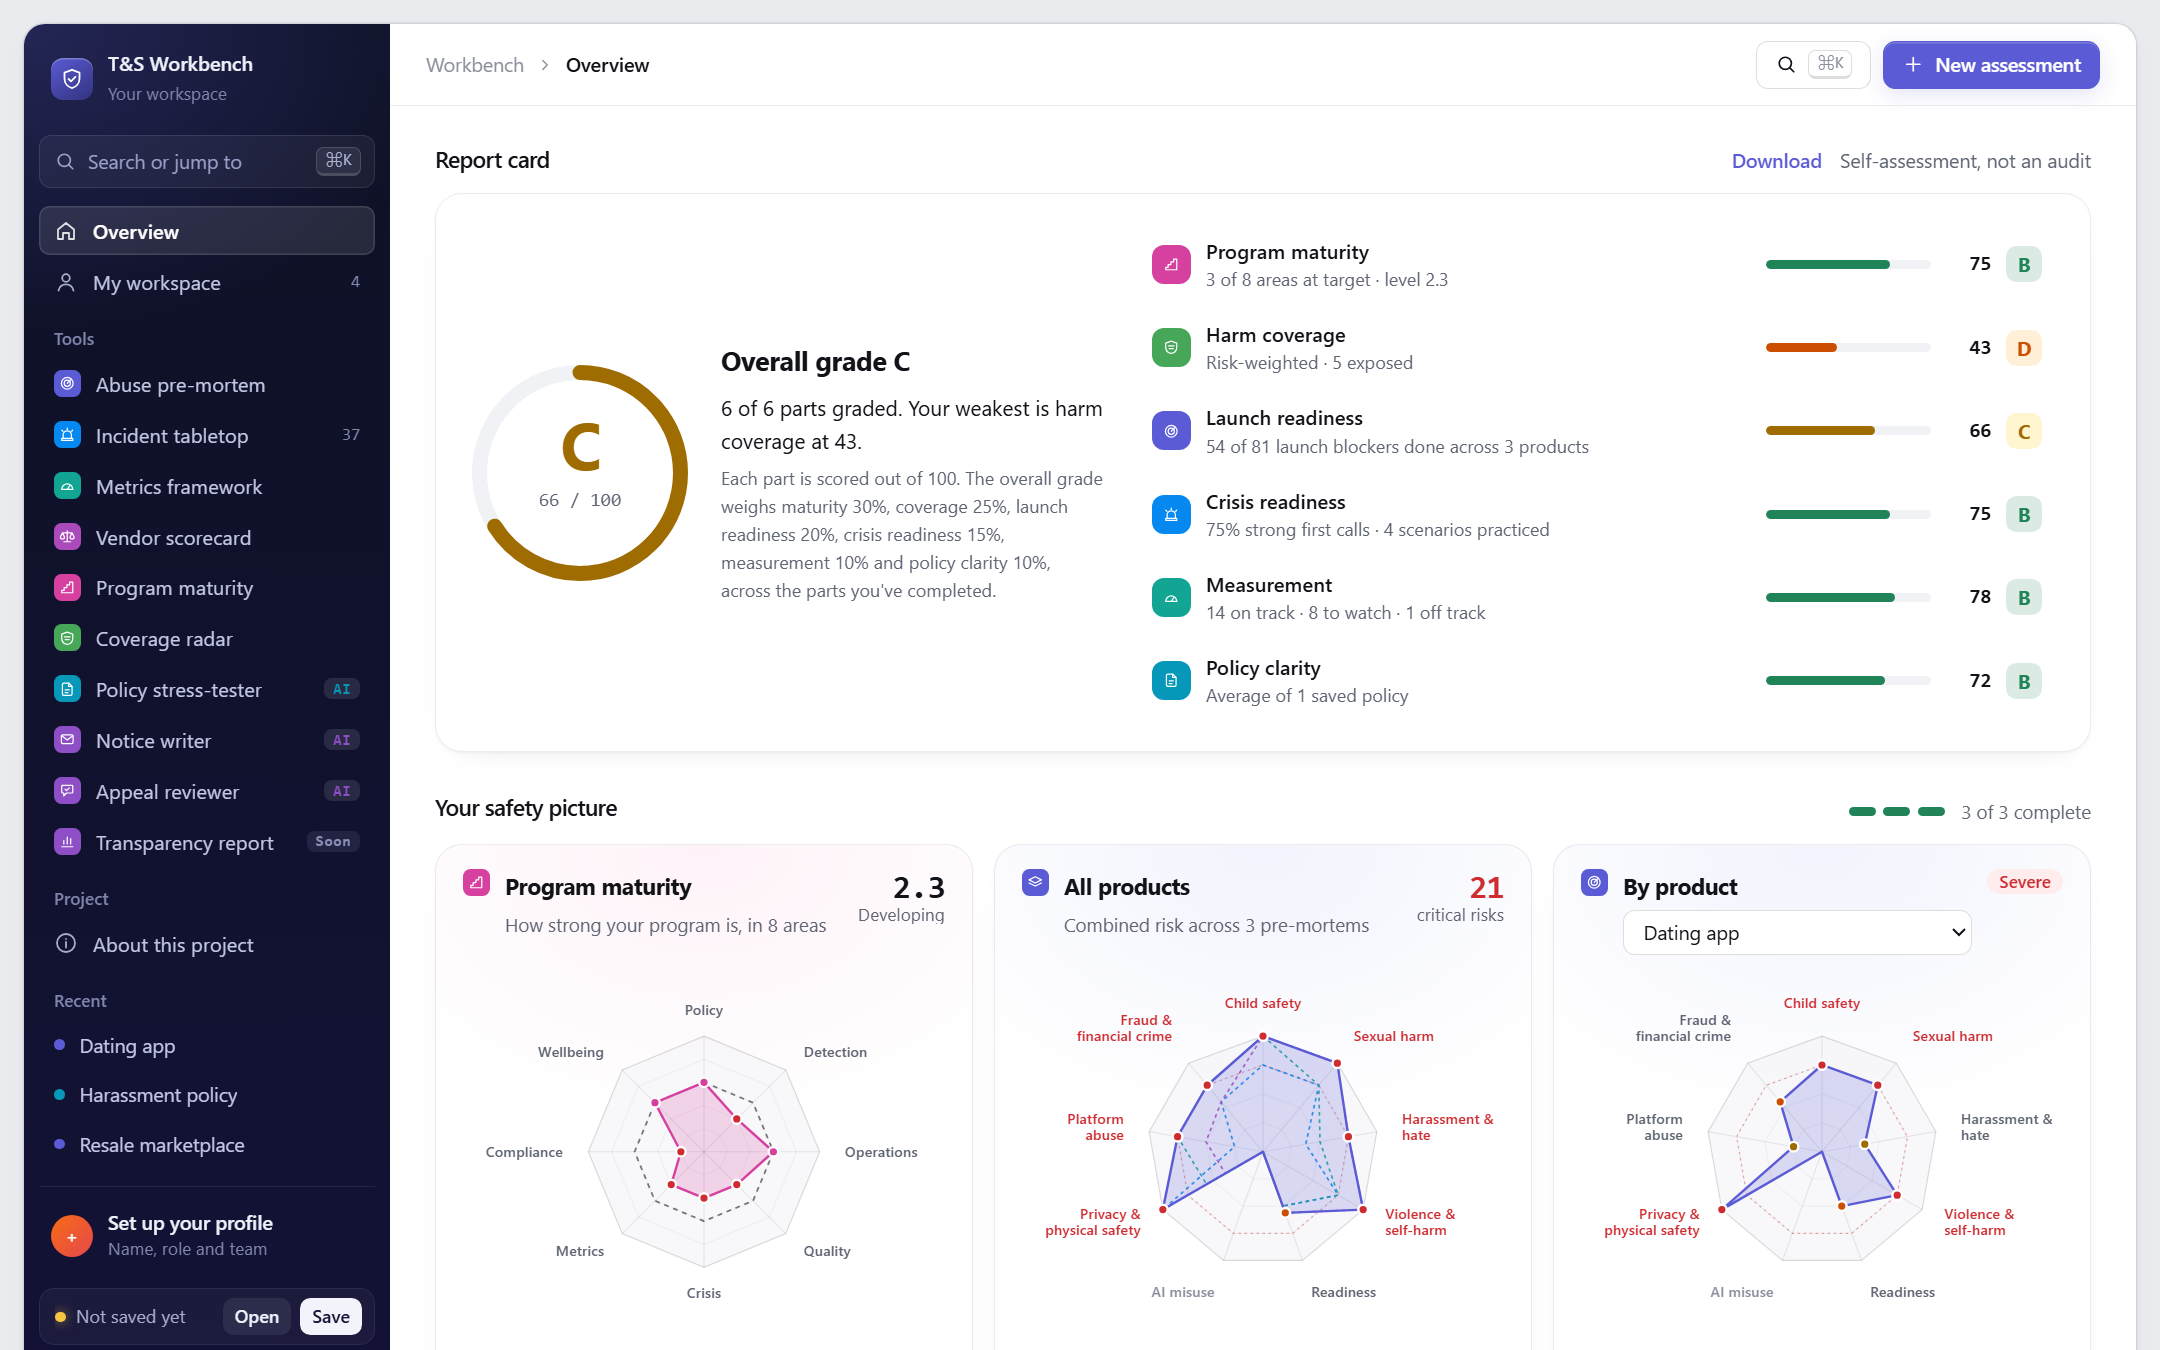
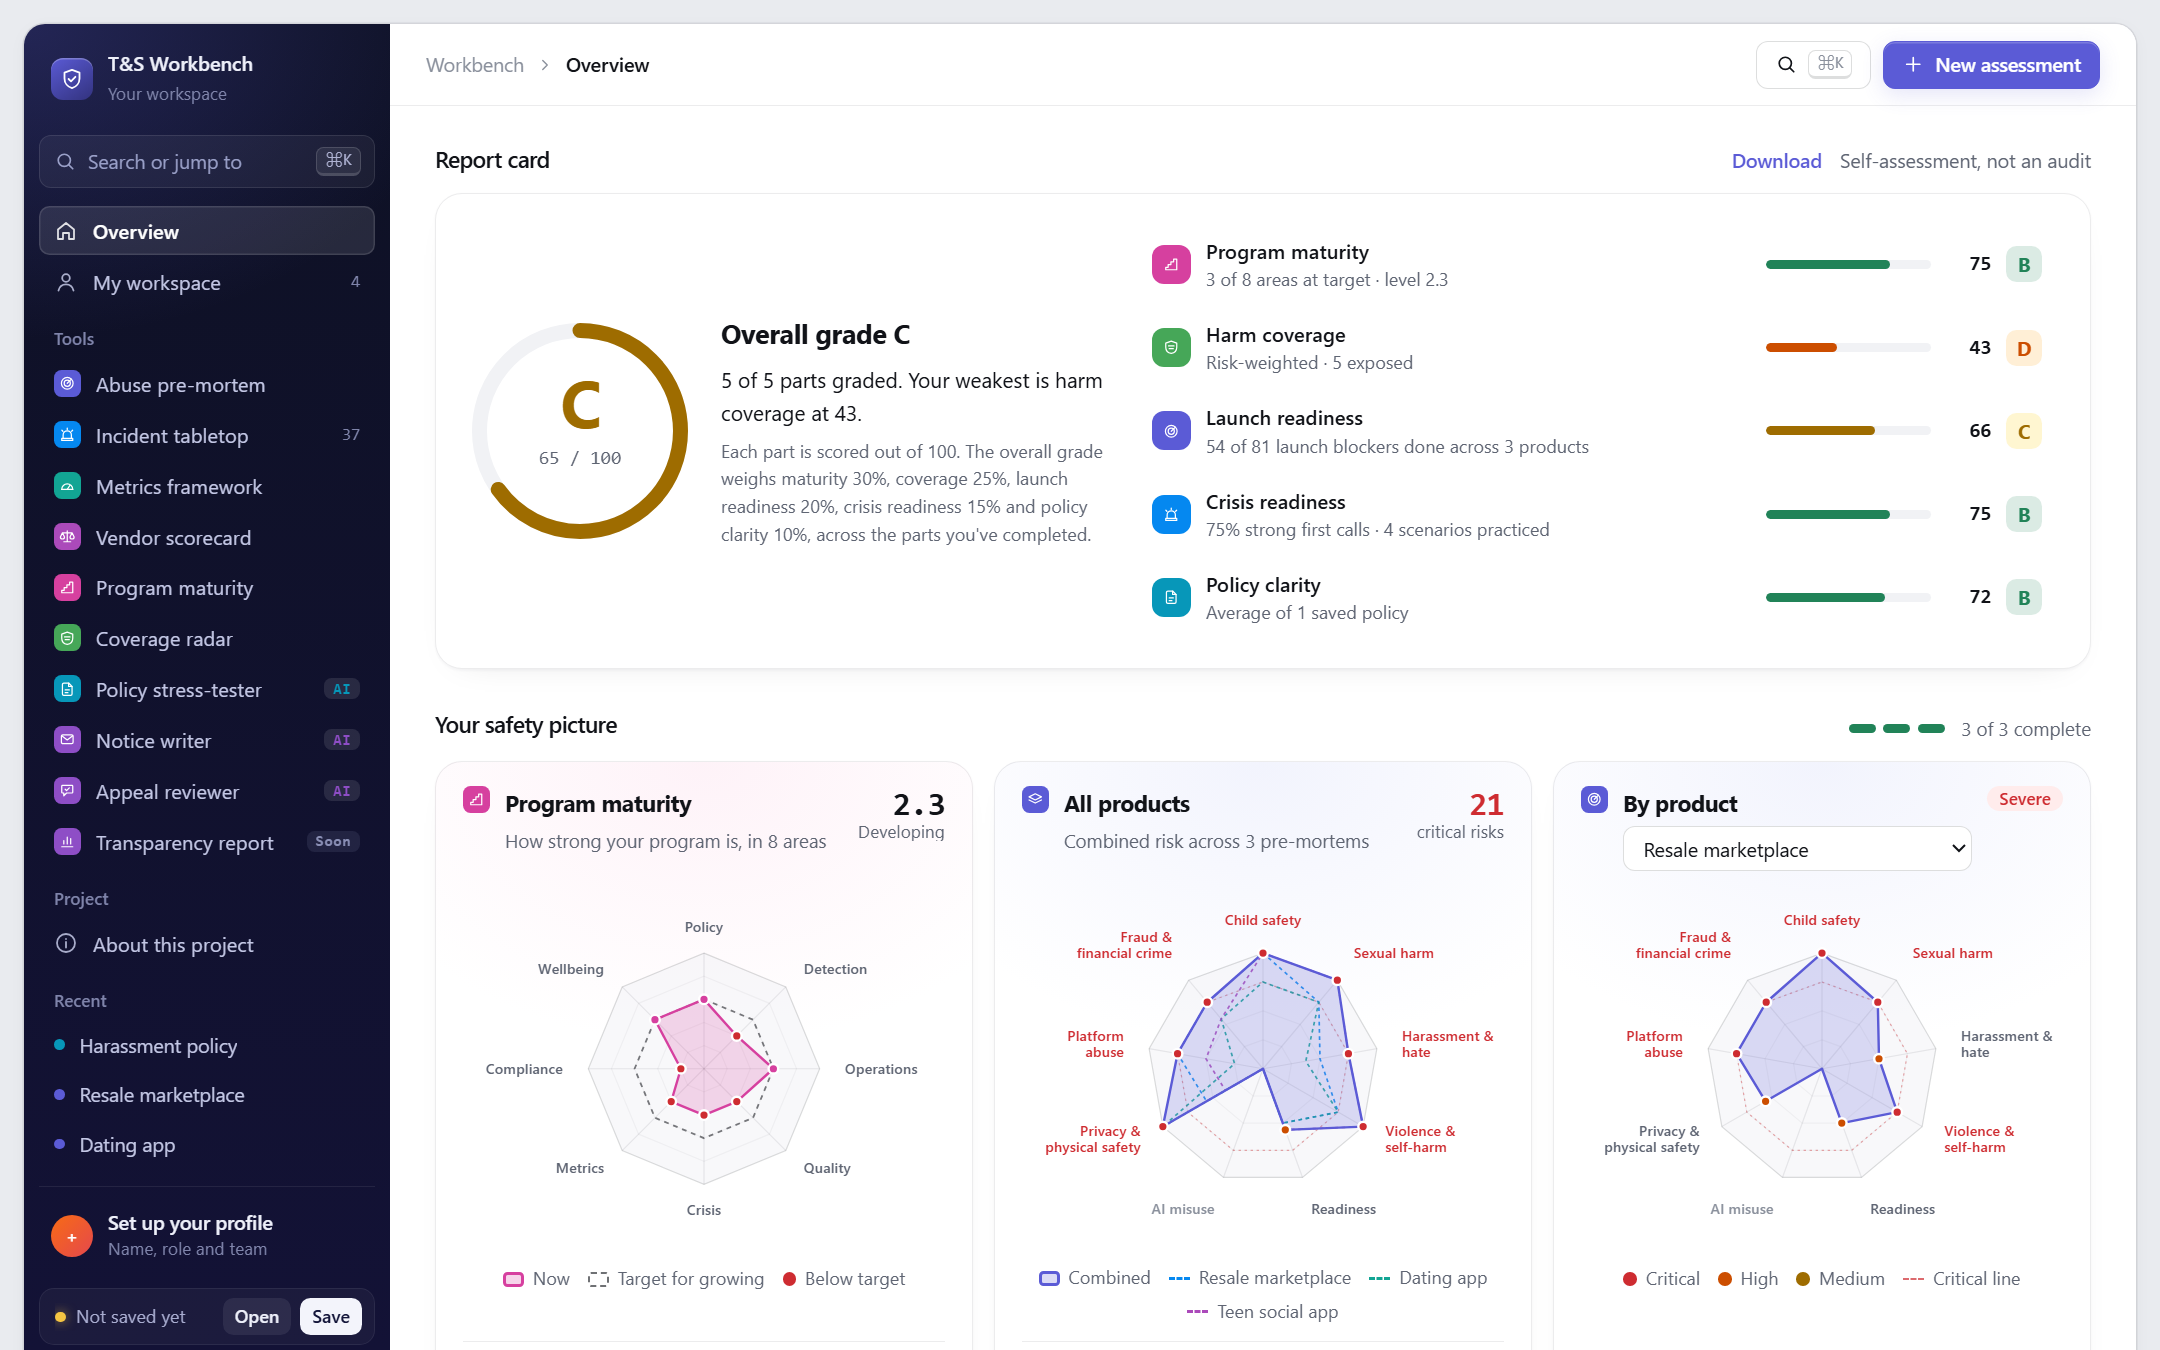
Report card: leave measurement out for now

diff --git a/src/test-rc.js b/src/test-rc.js
@@ -7,12 +7,12 @@ const body = function(){
   const part = k => rcParts().find(p => p.k === k);
   // nothing done: no grade, every part invites
   ma = maInit({stage:"growth", lv:{}, done:{}, ex:false}); cv = {src:null, ex:false, r:{}}; mx = {platform:"social", stage:"2", reg:true, vals:{}};
-  let o = rcOverall(rcParts()); eq(o.score, null, "no grade yet"); eq(o.total, 6, "six parts");
+  let o = rcOverall(rcParts()); eq(o.score, null, "no grade yet"); eq(o.total, 5, "five parts"); eq(rcParts().some(p => p.k === "metrics"), false, "measurement is left out for now");
   renderOverview(); let h = view.innerHTML; if(bad(h)) throw new Error("blank report card has bad values");
-  eq(/No grade yet/.test(h) && (h.match(/class="rc-ng"/g) || []).length, 6, "every part shows not graded");
+  eq(/No grade yet/.test(h) && (h.match(/class="rc-ng"/g) || []).length, 5, "every part shows not graded");
   // examples never count as your own
   ma = maExample(); cv = JSON.parse(JSON.stringify(CV_EXAMPLE)); eq(part("maturity").score, null, "maturity example is not graded"); eq(part("coverage").score, null, "coverage example is not graded");
-  out.push("blank and examples: no grade, six parts to complete");
+  out.push("blank and examples: no grade, five parts to complete");
   // maturity: closeness to target, capped at the target
   ma = maInit({stage:"growth", lv:{}, done:{}, ex:false}); MA_AREAS.forEach(a => ma.lv[a.k] = 3); eq(part("maturity").score, 100, "every area at target");
   ma.lv.crisis = 1; eq(part("maturity").score, Math.round((7 + 1 / 3) / 8 * 100), "one area short of target");
@@ -31,17 +31,17 @@ const body = function(){
   store.set("tt:progress", {[ttKey(0, "social")]:{best:4, runs:1}}); eq(part("crisis").score, Math.round(1 * (0.7 + 0.3 * 0.25) * 100), "one perfect scenario, partial credit for breadth");
   const prog = {}; [0, 1, 2, 3].forEach(i => prog[ttKey(i, "social")] = {best:2, runs:1}); store.set("tt:progress", prog); eq(part("crisis").score, 50, "four scenarios at half strong calls");
   // measurement and policy
-  eq(part("metrics").score, null, "needs three tracked metrics");
   wsPut({id:"PT-1", kind:"policy", title:"Harassment", data:{heur:{score:60}}}); wsPut({id:"PT-2", kind:"policy", title:"Scams", data:{result:{score:80}, heur:{score:40}}});
   eq(part("policy").score, 70, "average clarity, Claude's score first");
   out.push("parts: maturity capped at target, coverage needs every rating, blockers count double, crisis rewards breadth, policy averages");
+  eq(Object.values(RC_WEIGHTS).reduce((x, y) => x + y, 0), 100, "weights add up to 100");
   // overall: weighted across graded parts only
   const ps = rcParts(); o = rcOverall(ps); const g = ps.filter(p => p.score !== null), w = g.reduce((s, p) => s + RC_WEIGHTS[p.k], 0);
-  eq(o.score, Math.round(g.reduce((s, p) => s + p.score * RC_WEIGHTS[p.k], 0) / w), "weighted average"); eq(o.graded, 5, "five parts graded");
+  eq(o.score, Math.round(g.reduce((s, p) => s + p.score * RC_WEIGHTS[p.k], 0) / w), "weighted average"); eq(o.graded, 5, "all five parts graded");
   eq(rcGrade(85)[1], "A", "A from 85"); eq(rcGrade(84)[1], "B", "B below 85"); eq(rcGrade(39)[1], "F", "F below 40");
   renderOverview(); h = view.innerHTML; if(bad(h)) throw new Error("report card has bad values: " + (h.match(/.{60}(undefined|NaN|null).{30}/) || [""])[0]);
   eq(new RegExp(`Overall grade ${rcGrade(o.score)[1]}`).test(h) && new RegExp(`${o.score} / 100`).test(h), true, "overview shows the grade");
-  const md = rcMarkdown(); eq(/\*\*Overall: \d+ \/ 100, grade [A-F]\*\*/.test(md) && /\| Measurement \| Not graded \|/.test(md), true, "markdown report card");
+  const md = rcMarkdown(); eq(/\*\*Overall: \d+ \/ 100, grade [A-F]\*\*/.test(md) && !/Measurement/.test(md), true, "markdown report card");
   out.push(`overall: ${o.score} / 100, grade ${rcGrade(o.score)[1]}, ${o.graded} of ${o.total} parts graded; markdown export`);
   return out.join("\n");
 };

diff --git a/docs/index.html b/docs/index.html
@@ -9721,7 +9721,7 @@ function pmCurrentHero(){
    ========================================================= */
 const RC_GRADES = [[85, "A", "good"], [70, "B", "good"], [55, "C", "med"], [40, "D", "high"], [0, "F", "crit"]];
 const rcGrade = s => RC_GRADES.find(g => s >= g[0]);
-const RC_WEIGHTS = {maturity:30, coverage:25, launch:20, crisis:15, metrics:10, policy:10};
+const RC_WEIGHTS = {maturity:30, coverage:25, launch:20, crisis:15, policy:10};
 // Each part: {k, n, icon, color, route, score (0 to 100, or null when not graded), detail, todo}
 function rcParts(){
   const out = [], items = Object.values(wsItems());
@@ -9753,12 +9753,6 @@ function rcParts(){
     const perf = runs.length ? runs.reduce((s, x) => s + x, 0) / runs.length : 0;
     out.push({k:"crisis", n:"Crisis readiness", icon:"siren", color:"var(--t-tt)", route:"tabletop", score:runs.length ? Math.round(perf * (0.7 + 0.3 * Math.min(1, runs.length / 4)) * 100) : null,
       detail:runs.length ? `${Math.round(perf * 100)}% strong first calls · ${runs.length} scenario${runs.length === 1 ? "" : "s"} practiced${runs.length < 4 ? " (4 for full credit)" : ""}` : "", todo:"Rehearse a crisis in the tabletop"}); }
-  // Measurement: share of tracked metrics on track, watch counts half
-  if(typeof mxStatusCounts === "function"){
-    const c = mxStatusCounts(mx), n = c.on + c.watch + c.off;
-    out.push({k:"metrics", n:"Measurement", icon:"gauge", color:"var(--t-mx)", route:"metrics/scorecard", score:n >= 3 ? Math.round((c.on + c.watch / 2) / n * 100) : null,
-      detail:n ? `${c.on} on track · ${c.watch} to watch · ${c.off} off track` : "", todo:n ? "Track at least three metrics against targets" : "Set targets in your metrics scorecard"});
-  }
   // Policy clarity: average clarity score of saved policy tests
   { const pol = items.filter(it => it.kind === "policy" && it.data).map(it => it.data.result ? it.data.result.score : it.data.heur ? it.data.heur.score : null).filter(x => x !== null);
     out.push({k:"policy", n:"Policy clarity", icon:"doc", color:"var(--t-pol)", route:"policy", score:pol.length ? Math.round(pol.reduce((s, x) => s + x, 0) / pol.length) : null,
@@ -9787,7 +9781,7 @@ function rcHTML(){
     <div class="card rc-card">
       <div class="rc-main">${rcRing(o.score, 148)}
         <div class="rc-sum"><b>${gr ? `Overall grade ${gr[1]}` : "No grade yet"}</b><p>${esc(line)}</p>
-          <p class="note rc-how">Each part is scored out of 100. The overall grade weighs maturity 30%, coverage 25%, launch readiness 20%, crisis readiness 15%, measurement 10% and policy clarity 10%, across the parts you've completed.</p></div></div>
+          <p class="note rc-how">Each part is scored out of 100. The overall grade weighs maturity 30%, coverage 25%, launch readiness 20%, crisis readiness 15% and policy clarity 10%, across the parts you've completed.</p></div></div>
       <div class="rc-parts">${parts.map(p => { const g = p.score === null ? null : rcGrade(p.score);
         return `<a class="rc-p ${g ? "" : "open"}" href="#${p.route}"><span class="sb-glyph" style="background:${g ? p.color : "var(--faint)"}"><svg><use href="#i-${p.icon}"/></svg></span>
           <span class="rc-pt"><b>${p.n}</b><small>${esc(g ? p.detail : (p.detail ? p.detail + " · " : "") + p.todo)}</small></span>

diff --git a/src/partRC.js b/src/partRC.js
@@ -4,7 +4,7 @@
    ========================================================= */
 const RC_GRADES = [[85, "A", "good"], [70, "B", "good"], [55, "C", "med"], [40, "D", "high"], [0, "F", "crit"]];
 const rcGrade = s => RC_GRADES.find(g => s >= g[0]);
-const RC_WEIGHTS = {maturity:30, coverage:25, launch:20, crisis:15, metrics:10, policy:10};
+const RC_WEIGHTS = {maturity:30, coverage:25, launch:20, crisis:15, policy:10};
 // Each part: {k, n, icon, color, route, score (0 to 100, or null when not graded), detail, todo}
 function rcParts(){
   const out = [], items = Object.values(wsItems());
@@ -36,12 +36,6 @@ function rcParts(){
     const perf = runs.length ? runs.reduce((s, x) => s + x, 0) / runs.length : 0;
     out.push({k:"crisis", n:"Crisis readiness", icon:"siren", color:"var(--t-tt)", route:"tabletop", score:runs.length ? Math.round(perf * (0.7 + 0.3 * Math.min(1, runs.length / 4)) * 100) : null,
       detail:runs.length ? `${Math.round(perf * 100)}% strong first calls · ${runs.length} scenario${runs.length === 1 ? "" : "s"} practiced${runs.length < 4 ? " (4 for full credit)" : ""}` : "", todo:"Rehearse a crisis in the tabletop"}); }
-  // Measurement: share of tracked metrics on track, watch counts half
-  if(typeof mxStatusCounts === "function"){
-    const c = mxStatusCounts(mx), n = c.on + c.watch + c.off;
-    out.push({k:"metrics", n:"Measurement", icon:"gauge", color:"var(--t-mx)", route:"metrics/scorecard", score:n >= 3 ? Math.round((c.on + c.watch / 2) / n * 100) : null,
-      detail:n ? `${c.on} on track · ${c.watch} to watch · ${c.off} off track` : "", todo:n ? "Track at least three metrics against targets" : "Set targets in your metrics scorecard"});
-  }
   // Policy clarity: average clarity score of saved policy tests
   { const pol = items.filter(it => it.kind === "policy" && it.data).map(it => it.data.result ? it.data.result.score : it.data.heur ? it.data.heur.score : null).filter(x => x !== null);
     out.push({k:"policy", n:"Policy clarity", icon:"doc", color:"var(--t-pol)", route:"policy", score:pol.length ? Math.round(pol.reduce((s, x) => s + x, 0) / pol.length) : null,
@@ -70,7 +64,7 @@ function rcHTML(){
     <div class="card rc-card">
       <div class="rc-main">${rcRing(o.score, 148)}
         <div class="rc-sum"><b>${gr ? `Overall grade ${gr[1]}` : "No grade yet"}</b><p>${esc(line)}</p>
-          <p class="note rc-how">Each part is scored out of 100. The overall grade weighs maturity 30%, coverage 25%, launch readiness 20%, crisis readiness 15%, measurement 10% and policy clarity 10%, across the parts you've completed.</p></div></div>
+          <p class="note rc-how">Each part is scored out of 100. The overall grade weighs maturity 30%, coverage 25%, launch readiness 20%, crisis readiness 15% and policy clarity 10%, across the parts you've completed.</p></div></div>
       <div class="rc-parts">${parts.map(p => { const g = p.score === null ? null : rcGrade(p.score);
         return `<a class="rc-p ${g ? "" : "open"}" href="#${p.route}"><span class="sb-glyph" style="background:${g ? p.color : "var(--faint)"}"><svg><use href="#i-${p.icon}"/></svg></span>
           <span class="rc-pt"><b>${p.n}</b><small>${esc(g ? p.detail : (p.detail ? p.detail + " · " : "") + p.todo)}</small></span>
